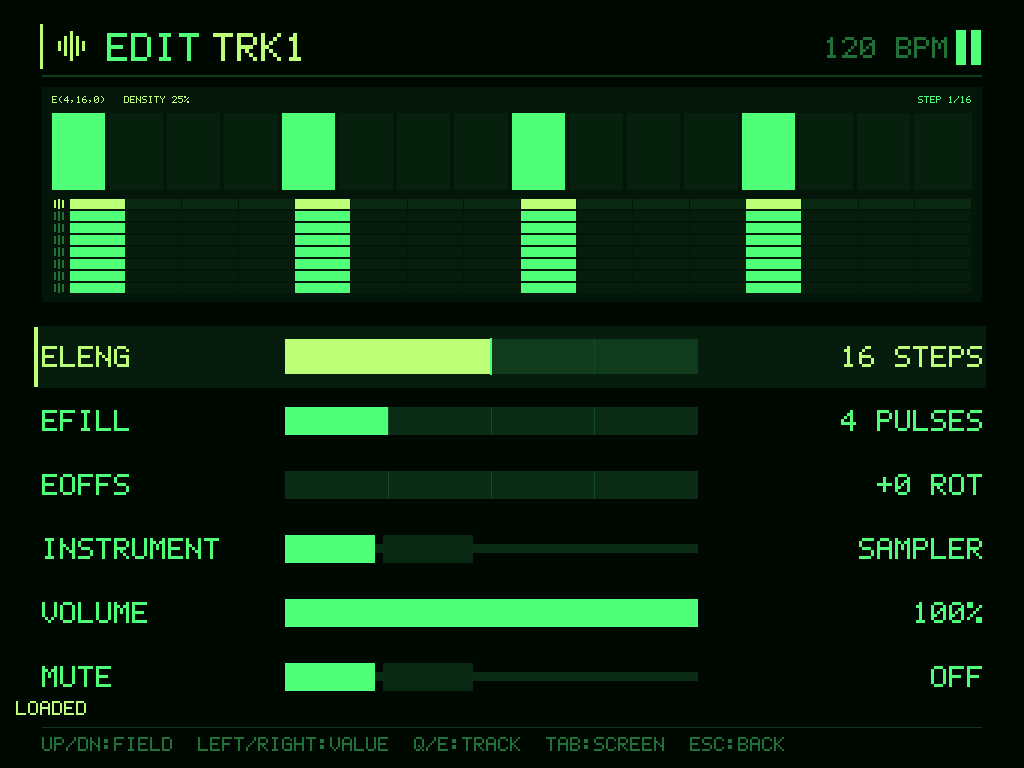
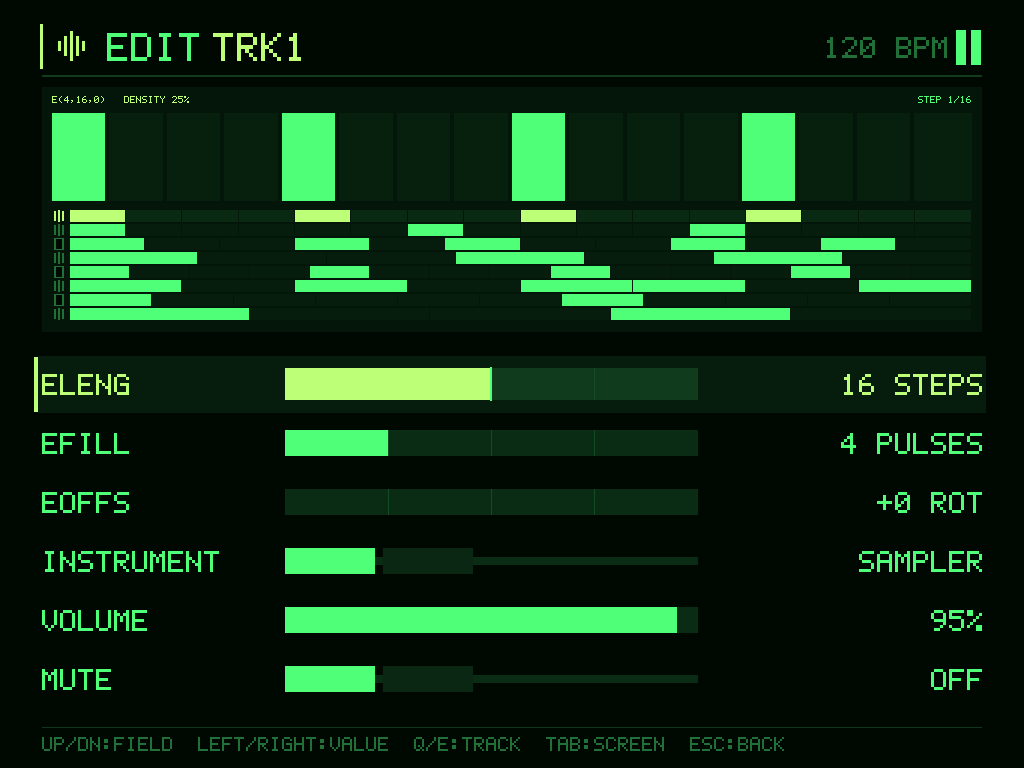
Widen parameter visualisers and tighten row pitch

diff --git a/src/app/main.cpp b/src/app/main.cpp
@@ -1904,7 +1904,9 @@ void renderRows(SDL_Renderer* renderer,
     const std::size_t maxRows =
         std::max<std::size_t>(1, std::max(columnRows[0], columnRows[1]));
 
-    const std::int32_t maxPitch = std::max<std::int32_t>(40, height / 12);
+    // Slightly tighter than the row's natural cap so the visualiser above can
+    // take the freed height without the type scale stepping down.
+    const std::int32_t maxPitch = std::max<std::int32_t>(36, height / 13);
     const std::int32_t pitch = std::clamp<std::int32_t>(
         availableHeight / static_cast<std::int32_t>(maxRows), 18, maxPitch);
     const std::int32_t blockHeight =
@@ -3640,7 +3642,7 @@ int runSdlApp(const AppOptions& options) {
                                  height);
                 break;
             case pocket::ui::Screen::Edit: {
-                const std::int32_t explorerH = std::max<std::int32_t>(140, height * 28 / 100);
+                const std::int32_t explorerH = std::max<std::int32_t>(150, height * 32 / 100);
                 renderRows(renderer, *palette, "EDIT",
                            "", editRows(selectedTrack),
                            static_cast<std::size_t>(ui.state().editField),
@@ -3656,7 +3658,7 @@ int runSdlApp(const AppOptions& options) {
                 break;
             }
             case pocket::ui::Screen::Sound: {
-                const std::int32_t vizH = std::max<std::int32_t>(88, height * 15 / 100);
+                const std::int32_t vizH = std::max<std::int32_t>(96, height * 23 / 100);
                 renderRows(renderer, *palette, "SOUND",
                            "",
                            soundRows(selectedTrack, ui.effects(),
@@ -3679,7 +3681,7 @@ int runSdlApp(const AppOptions& options) {
                                   height);
                 break;
             case pocket::ui::Screen::Modulation: {
-                const std::int32_t vizH = std::max<std::int32_t>(84, height * 14 / 100);
+                const std::int32_t vizH = std::max<std::int32_t>(96, height * 23 / 100);
                 renderRows(renderer, *palette, "MODULATION",
                            "", modulationRows(selectedTrack),
                            static_cast<std::size_t>(ui.state().modulationField),
@@ -3710,7 +3712,7 @@ int runSdlApp(const AppOptions& options) {
             }
             case pocket::ui::Screen::Turing: {
                 const std::int32_t vizH =
-                    std::max<std::int32_t>(84, height * 14 / 100);
+                    std::max<std::int32_t>(96, height * 23 / 100);
                 renderRows(
                     renderer, *palette, "TURING", "",
                     turingRows(selectedTrack),

diff --git a/docs/STATUS_AND_ROADMAP.md b/docs/STATUS_AND_ROADMAP.md
@@ -135,6 +135,7 @@
 ### 検証済み／未検証
 
 - Windows x86-64でLLVM-MinGW Clang 23.1.3、CMake 4.3.2、Ninjaを使ったネイティブCMakeビルドを確認済み。
+- **パラメーター画面の行間を詰めて上部ビジュアライザーを拡張（2026-10-31）。** `renderRows`の行ピッチ上限を`height / 12`から`height / 13`へ下げ、EDITのステップ探索ビューを高さの28%→32%（最低150 px）、SOUND／MODULATION／TURINGのビジュアライザーを15%／14%→23%（最低96 px）へ広げた。行間は1024×768で64→59 px、640×480で40→36 pxとなり、文字倍率は変わらない。従来は行ブロックが上下中央寄せのためMODULATION／TURINGで上下に約45 pxの空白が残っていたが、その余白をビジュアライザーへ充てた。1024×768と640×480のEDIT／SOUND／MODULATION／TURING／SYSTEMをキャプチャし、行の重なりとフッター・ステータス行との干渉がないことを目視確認した。sequencer／UI自動テストはWindowsで全件成功。実機パネルでの視認性は未確認。
 - **MIDI楽器と常時クロック出力（2026-10-30）。** `InstrumentType`へ`Midi`を追加し、EDITのINSTRUMENT行をSAMPLER→SYNTH→MIDIの3値サイクルにした。MIDIトラックは内部音声をレンダリングせず、トリガーをNote On/Offとして出力する（モノフォニック、`synth.pitchHz`＋Turing半音オフセット、Volume→ベロシティ、出力基準チャンネル＋トラック番号、50%ゲート）。SOUND画面はMIDIトラックでPITCHのみ編集可とし、内部音声系の行をsubdued・読み取り専用にした。マスターBPMに追従する24 PPQNのF8をオーディオスレッドで生成し、トランスポート停止中も常時送出する。Start/Stop/Continueは`transportRevision`に追従する。WinMMバックエンドは入出力を独立にオープンし、片方のみのポートでも動作する。SYSTEMのMIDI表示を`OFF`／`IN+OUT`／`IN`／`OUT`／`NO DEV`へ拡張した。MIDI行は左右キーに加えてConfirm/Aでもトグルできる。`MidiClockGenerator`・Hz→ノート変換・コールバック統合・UI行状態のテストを追加し、Windowsで全テストが成功。実MIDI機器が無いため、クロック精度と外部機器追従は未検証。
 - **MIXER操作体系のトラッカー方式統一とMaster行分離、SOUND画面の無効項目表示（2026-10-29）。** MIXERを従来のConfirm循環・左右値変更から、SOUND／MODULATION／TURINGと共通のトラッカー方式（←→で列移動、A/Ctrl+←→で値変更、A単押しでMUTE/LOCKトグルおよびDICE実行）へ統一した。Master Volumeは8列目のフィールドから8トラック下の独立行（`mixerMasterRow`）へ再定義し、上下でTRK1…TRK8とMASTERを行移動できるようにした。Master行選択時はヘッダーバッジを`TRKn`から`MST`へ切り替え、Q/E（L1/R1）でトラック復帰するよう調整した。実機コントローラーの`canDeferConfirm()`へ`Screen::Mixer`を追加し、ゲームパッドでのA+左右操作を有効化した。さらに、SOUND画面においてインストゥルメントがSAMPLERのときはシンセ系パラメーター（ENGINE、MODEL、PITCH、MORPH、TIMBRE、COLOR）を無効化（subdued表示・バー消灯・Confirm無効）、SYNTHのときはSAMPLE行を無効化（ファイルセレクタ起動防止）、FILTER OFF時はCUTOFFを無効化する階層表現を導入した。Windowsで全UI・シーケンサ自動テスト（100% pass）を確認済み。無効行はConfirmだけでなくA/Ctrl+←→の値変更も拒否し、MODELはPLAITS選択時のみ編集可とした。MIXERのMASTER行では修飾なしの←→が値を変えないことをテストで確認し、MASTER行選択時はフッターを専用文言（`A/CTRL+LEFT/RIGHT:VOLUME`）へ切り替える。
 - **MAINのフッター削除とトラック表示の明確化（2026-10-28）。** MAIN最下部のキーヒント帯を削除し、8レーンの行高を拡張してリズムを画面いっぱいに表示するようにした。MAINヘッダーには選択トラックを`TRK1`…`TRK8`として明示し、EDIT／SOUND／MIXER／MODULATIONのタイトル横にも同一のアクセント付き`TRKn`バッジを追加した。MIXERヘッダーに重複していた`T1`表記を解消し、画面ごとのフッターを文脈依存の短いヒントへ更新した。SOUND／MODULATIONの2列パラメーターは、通常の←→で同一行の左右列へ移動し、A（ゲームパッド）またはCtrl（キーボード）を押しながら←→で値を変更するトラッカー方式に変更した（M8系の操作体系）。Shift併用で微調整。`--inject-keys`へ`ctrl`を追加し、列移動と値変更をGUIキャプチャで確認した。1024×768と640×480のMAIN／SOUND／MODULATIONを確認済み。実機での操作感は未確認。
